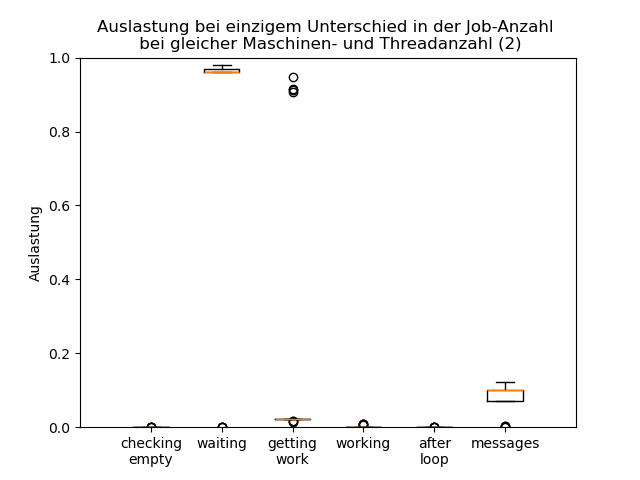
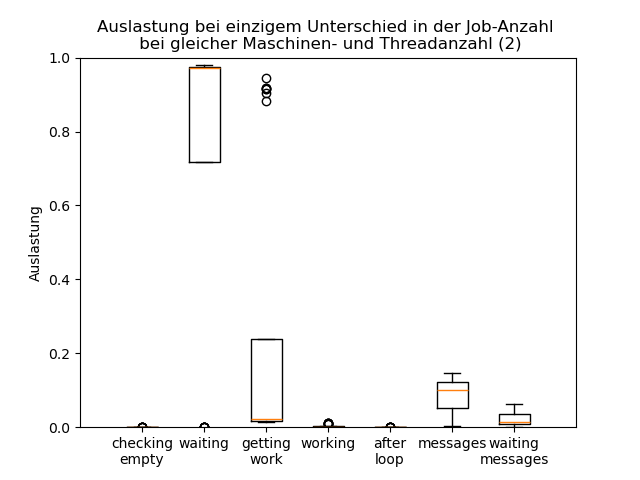
few changes

Changed region(s): [[0.1562, 0.6875, 0.875, 0.9688], [0.2812, 0.125, 0.375, 0.3438], [0.4062, 0.1562, 0.4688, 0.2188]]

diff --git a/src/app/bnb/bnb_job.cpp b/src/app/bnb/bnb_job.cpp
@@ -89,6 +89,12 @@ int BnbJob::appl_solved() { //TODO CHANGES HERE
     LOG(V2_INFO, "[tracking] Time not spent working after loop: 4 %f\n", perc_not_working_after);
     float perc_messages = tracker.time_spent_messages / tracker.time_since_activation;
     LOG(V2_INFO, "[tracking] Time spent on messages: 5 %f\n", perc_messages);
+    float perc_waiting = tracker.time_spent_waiting / tracker.time_since_activation;
+
+    if (tracker.waiting_start_time == -1) tracker.time_spent_waiting += (Timer::elapsedSeconds() - tracker.waiting_start_time);
+    LOG(V2_INFO, "[tracking] Time spent on messages: 6 %f\n", perc_waiting);
+    LOG(V2_INFO, "[tracking] 7 %f %f\n", tracker.time_spent_waiting, tracker.time_since_activation);
+
 
     return _result.result;
 }
@@ -163,6 +169,9 @@ void BnbJob::appl_communicate() {
                 getJobTree().send(recvRank, MSG_SEND_APPLICATION_MESSAGE, msg);
                 LOG(V2_INFO, "[msg] Requested work stealing from: %i\n", recvRank);
                 _waiting = 1;
+                //tracker
+                tracker.waiting_start_time = Timer::elapsedSeconds();
+                LOG(V2_INFO, "[track] Starting tracker: %i\n", tracker.waiting_start_time);
                 _first = 0;
             }            
         } else if (!_finished) {
@@ -187,6 +196,9 @@ void BnbJob::appl_communicate() {
                 getJobTree().send(recvRank, MSG_SEND_APPLICATION_MESSAGE, msg);
                 LOG(V2_INFO, "[msg] Requested work stealing from: %i\n", recvRank);
                 _waiting = 1;
+                //tracker
+                tracker.waiting_start_time = Timer::elapsedSeconds();
+                LOG(V2_INFO, "[track] Starting tracker: %i\n", tracker.waiting_start_time);
             }            
         }
     }
@@ -266,6 +278,10 @@ void BnbJob::appl_communicate(int source, int mpiTag, JobMessage& msg) {
     if(msg.tag == MSG_WORK_STEALING_ANSWER) {
         if(msg.payload[0] == -1) {
             _waiting = 0;
+            //tracker
+            tracker.time_spent_waiting += (Timer::elapsedSeconds() - tracker.waiting_start_time);
+            LOG(V2_INFO, "[track] Stopping tracker: %i %i %i\n", tracker.waiting_start_time, Timer::elapsedSeconds(), tracker.time_spent_waiting);
+            tracker.waiting_start_time = -1;
             tracker.num_nonsucc_empty++;
         } else {
             LOG(V2_INFO, "[msg] Work stealing query successful. Filling work queue.\n");
@@ -427,7 +443,6 @@ void BnbJob::loop() {
             curr_work = _work_queue.front();
             _work_queue.pop();
         }
-        usleep(50); //TODO work on removing
         LOG(V5_DEBG, "%s", transform_for_log("[queue] In Loop. Currently at:", curr_work).c_str());
         if (num_expl_nodes % 1000 == 0) LOG(V2_INFO, "[queue] In loop. Jobs left: %i\n", _work_queue.size()+1);
 
@@ -705,6 +720,10 @@ void BnbJob::addToQueue(std::vector<int>& message) {
 
     _working = 1;
     _waiting = 0;
+    //tracker
+    tracker.time_spent_waiting += (Timer::elapsedSeconds() - tracker.waiting_start_time);
+    LOG(V2_INFO, "[track] Stopping tracker: %i %i %i\n", tracker.waiting_start_time, Timer::elapsedSeconds(), tracker.time_spent_waiting);
+    tracker.waiting_start_time = -1;
     _loop_cond_var.notify();
     LOG(V2_INFO, "[adding] Adding ending now\n");
 }

diff --git a/tracking_output/utilization/utilization_plotting.py b/tracking_output/utilization/utilization_plotting.py
@@ -4,7 +4,7 @@ import math
 import os
 
 # Assign directory
-directory = r"/home/eliane/Documents/Bachelorarbeit/MY MALLOB/mallob/tracking_output/utilization/out"
+directory = r"/home/eliane/Documents/Bachelorarbeit/MY MALLOB/mallob/tracking_output/utilization/out_new"
 
 # Variables
 non_tracking_files = []
@@ -68,7 +68,7 @@ print(values)
 max_value = math.ceil(max(max(sub_list) for sub_list in values[1]))
 min_value = math.floor(min(min(sub_list) for sub_list in values[1]))
 
-plt.boxplot(x=values[1], tick_labels=["checking\nempty", "waiting", "getting\nwork", "working", "after\nloop", "messages"])
+plt.boxplot(x=values[1], tick_labels=["checking\nempty", "waiting", "getting\nwork", "working", "after\nloop", "messages", "waiting\nmessages"])
 
 plt.xlim([0, len(values[0])+1])
 plt.ylim([min_value, 1])
@@ -77,4 +77,4 @@ plt.title("Auslastung bei einzigem Unterschied in der Job-Anzahl \n bei gleicher
 plt.xlabel("")
 plt.ylabel("Auslastung")
 
-plt.savefig("tracking_output/utilization/utilization_plot.png")
+plt.savefig("tracking_output/utilization/utilization_plot_new.png")

diff --git a/src/app/bnb/bnb_job.hpp b/src/app/bnb/bnb_job.hpp
@@ -48,6 +48,8 @@ private:
         float time_spent_not_working_after;
         float messages_start_time;
         float time_spent_messages;
+        float waiting_start_time;
+        float time_spent_waiting;
 
         int num_queries;
         int num_succ_queries;
@@ -56,7 +58,7 @@ private:
         int num_nonsucc_empty;
     };
 
-    Tracker tracker = {-1, 0, -1, 0, -1, -1, 0, -1, 0, -1, 0, -1, 0, -1, 0, 0, 0, 0, 0};
+    Tracker tracker = {-1, 0, -1, 0, -1, -1, 0, -1, 0, -1, 0, -1, 0, -1, 0, -1, 0, 0, 0, 0, 0};
 
     long appr_amount_of_expl; //approximative amount of explorations (2^nr tasks)
     int num_expl_nodes;
